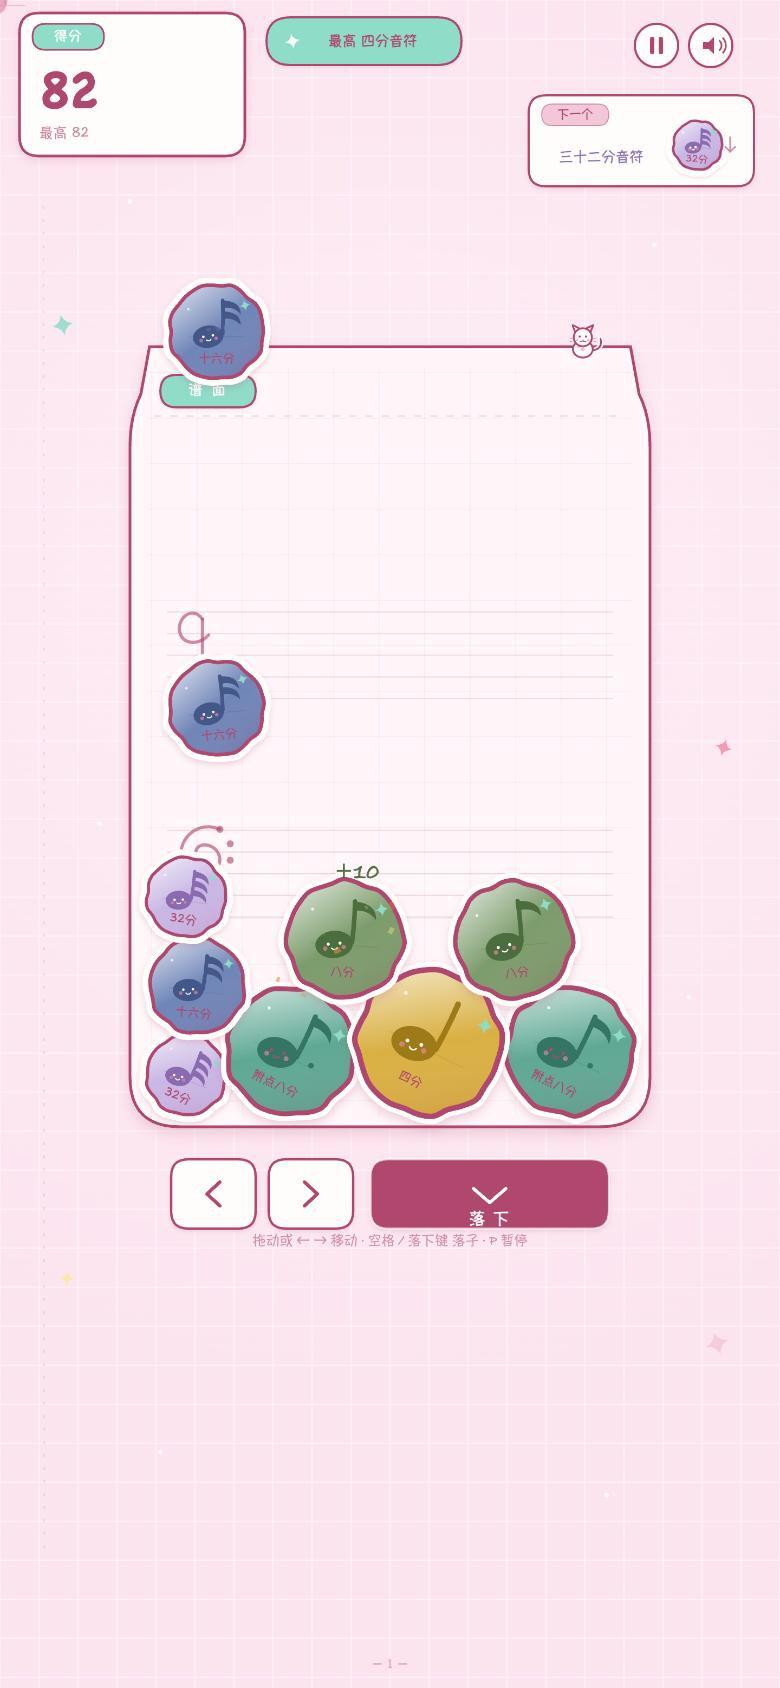
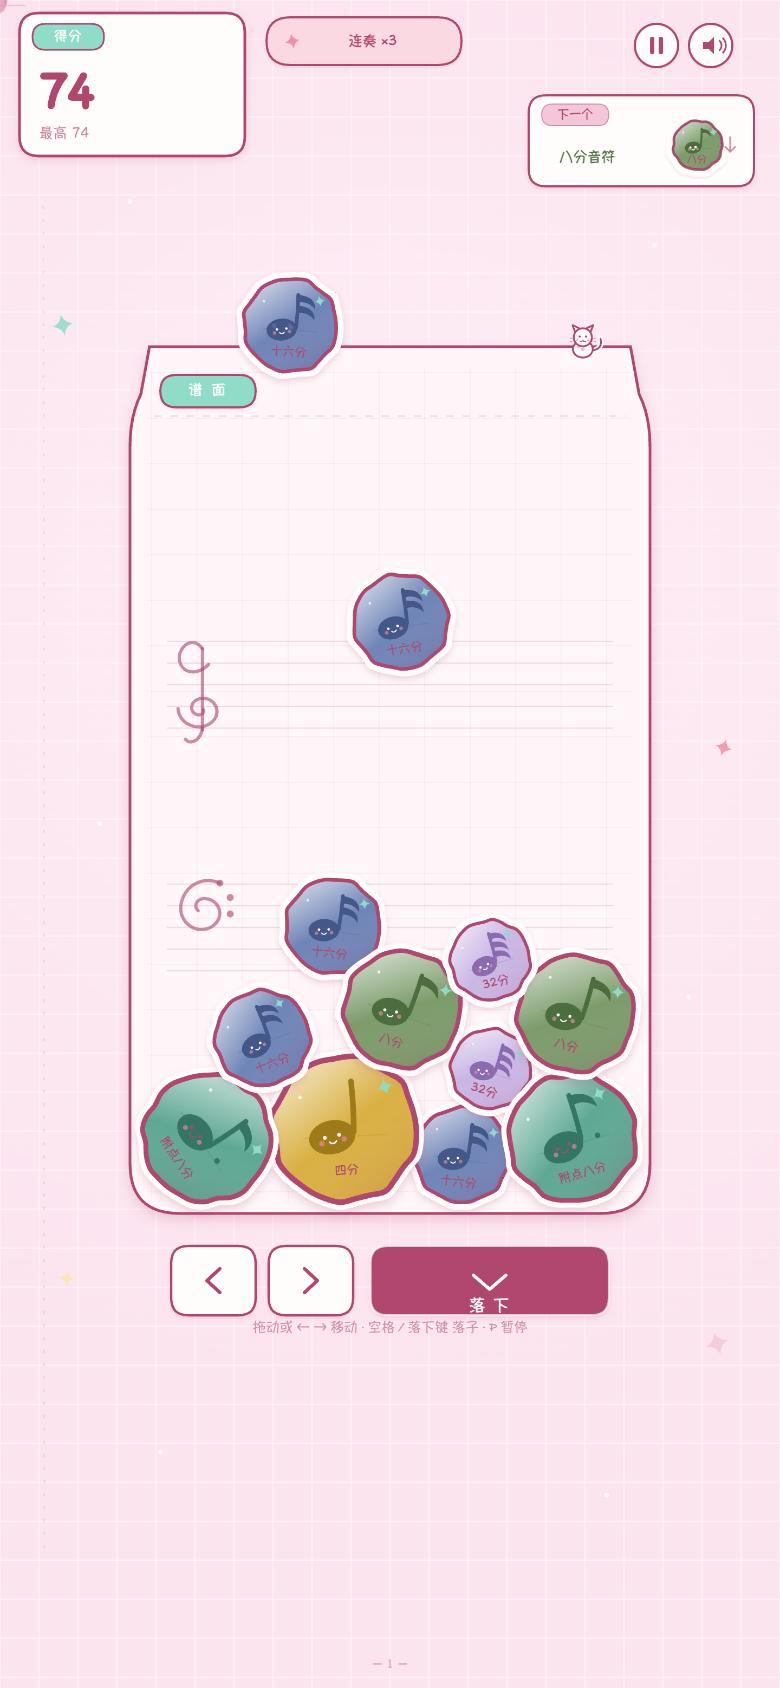
Publish 音符对对碰

diff --git a/staff-drop/index.html b/staff-drop/index.html
@@ -90,7 +90,7 @@
 
   var HUD_H = 196;
   var JAR_W = 480, JAR_X = 120, JAR_Y = 320;
-  var JAR_H = 720, JAR_BOTTOM = 1040, TOP_LINE = 384, DROP_Y = 292;
+  var JAR_H = 800, JAR_BOTTOM = 1120, TOP_LINE = 384, DROP_Y = 292;
   var BAR_Y = 1180, HINT_Y = 1256;
   var NEXT = { x: 488, y: 88, w: 208, h: 84 };
   var SND = { x: 656, y: 42, r: 20 };
@@ -240,7 +240,7 @@
   }
 
   function layout() {
-    JAR_H = clampInt(H - 838, 560, 820);
+    JAR_H = clampInt(H - 758, 560, 860);
     JAR_BOTTOM = JAR_Y + JAR_H;
     TOP_LINE = JAR_Y + 64;
     DROP_Y = JAR_Y - 28;
